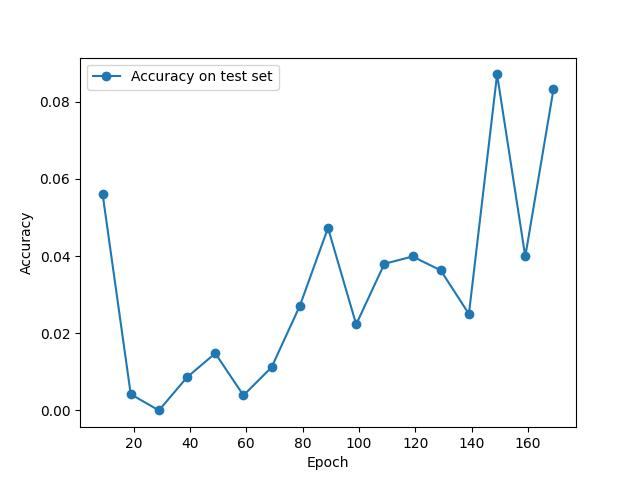
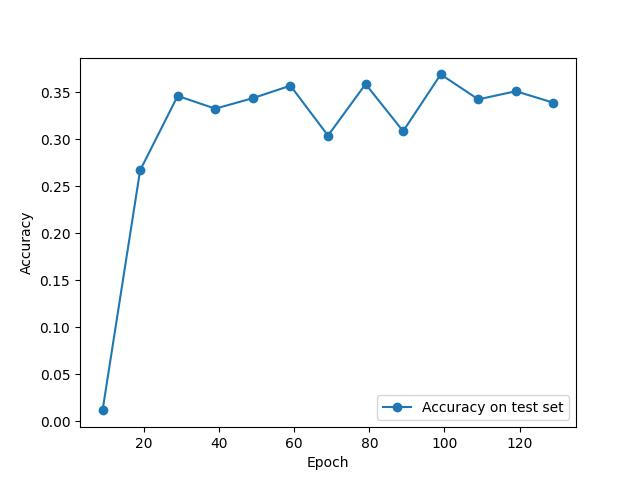
[common] update cuda

diff --git a/damo_yolo2/damo/config/base.py b/damo_yolo2/damo/config/base.py
@@ -22,7 +22,7 @@ miscs = easydict({
     'seed': 1234,                  # rand seed for initialize
     'eval_interval_epochs': 1,    # evaluation interval
     'ckpt_interval_epochs': 1,    # ckpt saving interval
-    'num_workers': 4,
+    'num_workers': 16,
 })
 
 train = easydict({
@@ -51,7 +51,7 @@ train = easydict({
 
 test = easydict({
     'augment': test_aug,           # augmentation config for testing
-    'batch_size': 128,             # testing batch size
+    'batch_size': 1,             # testing batch size
 })
 
 dataset = easydict({

diff --git a/damo_yolo2/damo/apis/detector_trainer.py b/damo_yolo2/damo/apis/detector_trainer.py
@@ -96,7 +96,7 @@ class Trainer:
         # self.args = args
         self.output_dir = cfg.miscs.output_dir
         self.exp_name = cfg.miscs.exp_name
-        self.device = 'cpu'
+        self.device = 'cuda' if torch.cuda.is_available() else 'cpu'
 
         self.testset = cfg.dataset.testset
         self.model_name = cfg.model_name
